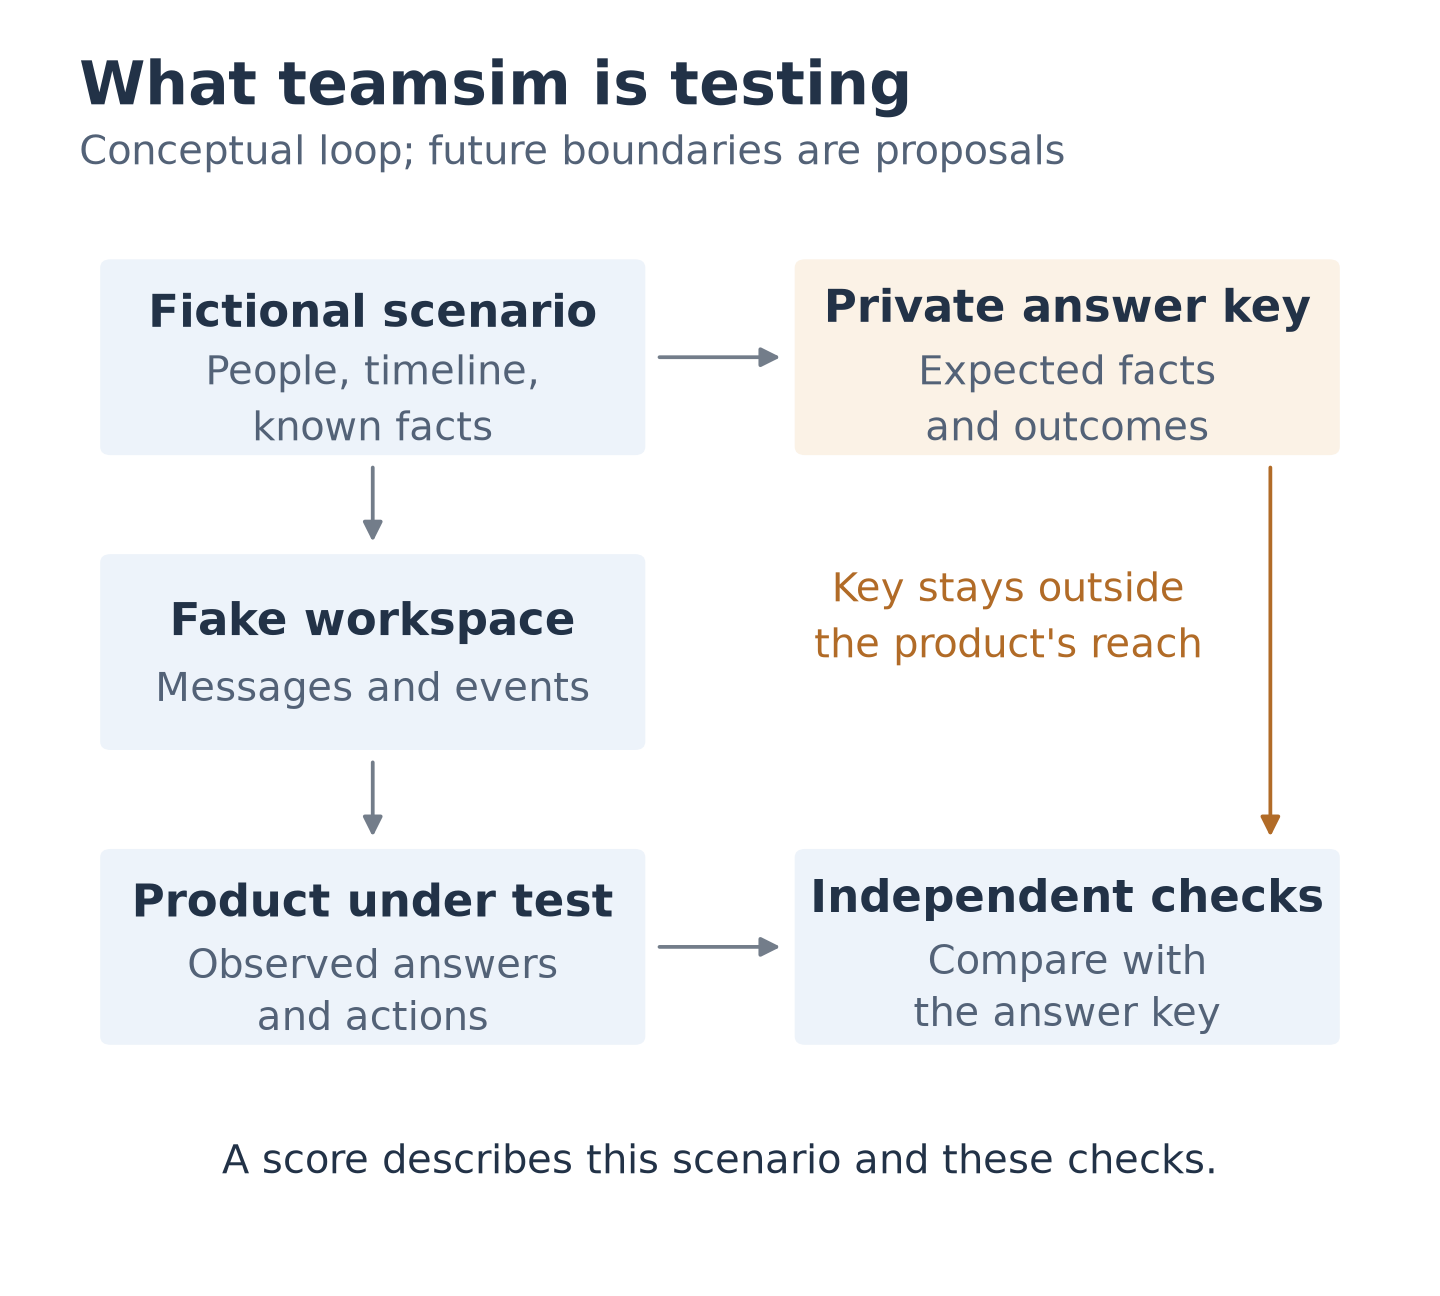
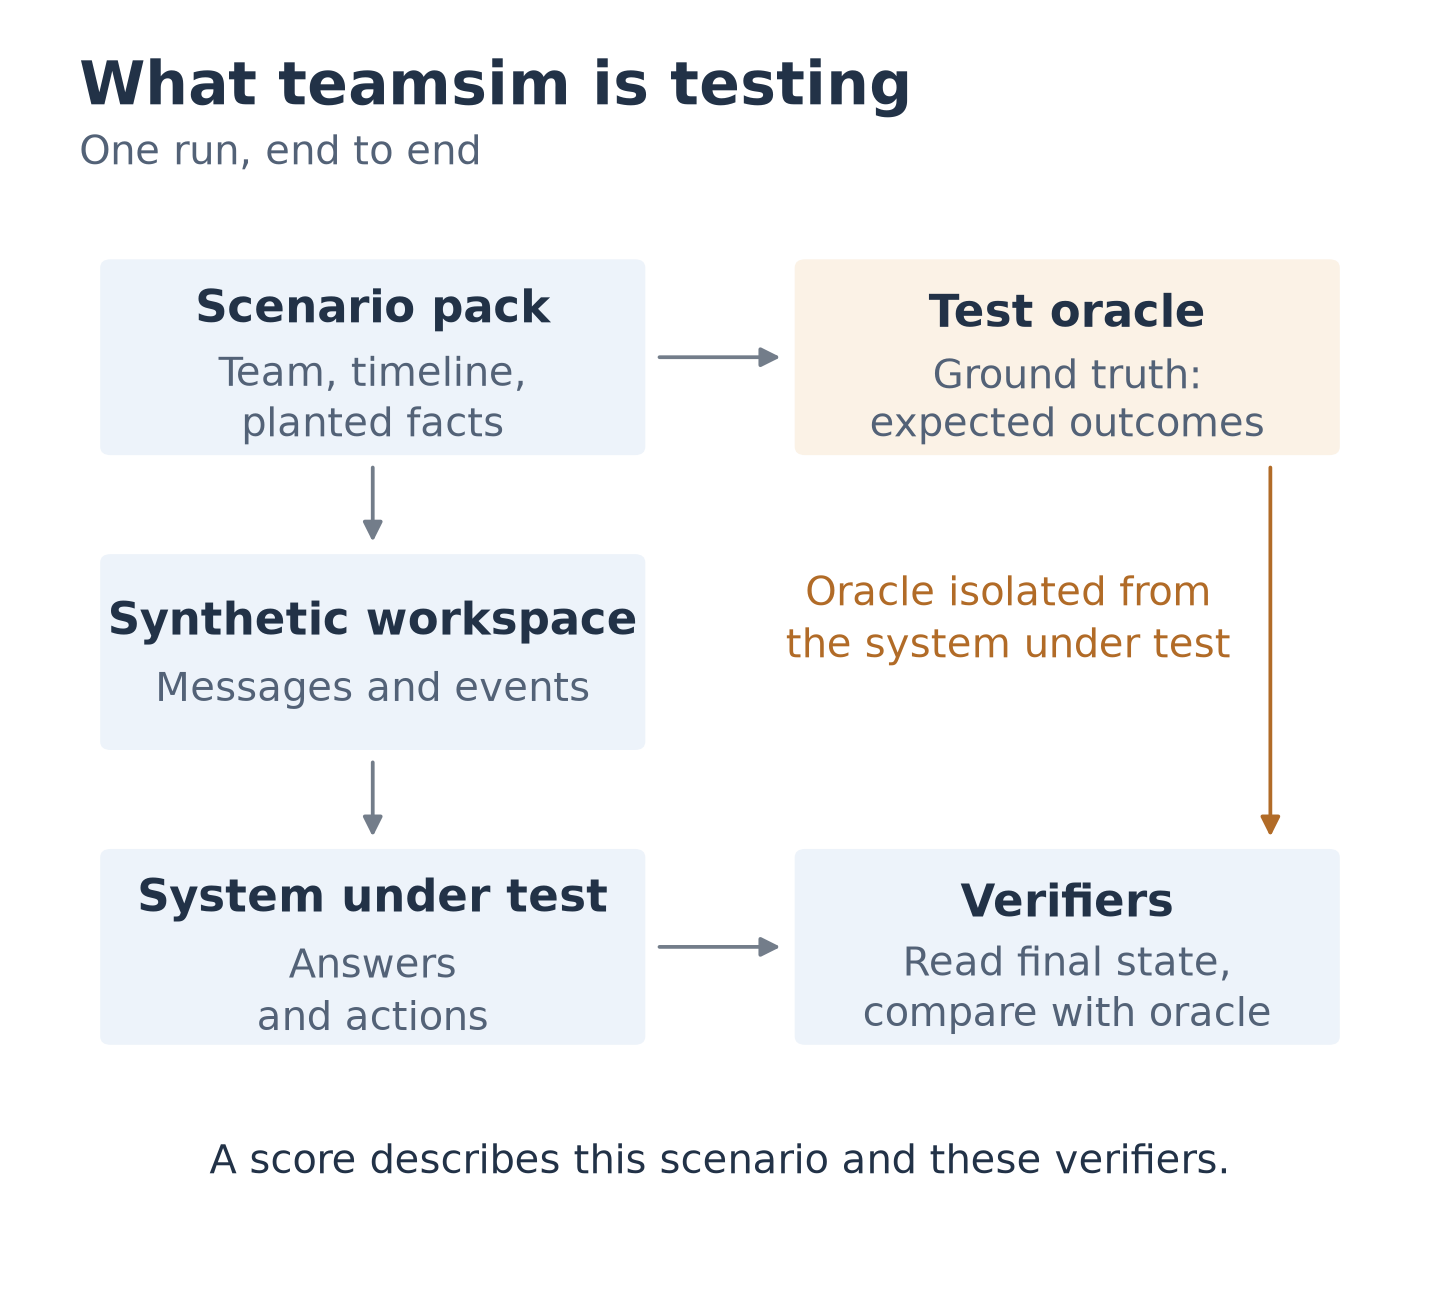
docs: use standard testing terms in the README and designs (#9)
lgtm

diff --git a/docs/research/figures/render.py b/docs/research/figures/render.py
@@ -98,21 +98,22 @@ def clean_axes(ax):
 
 
 def testing_loop():
-    fig, ax = canvas("What teamsim is testing", "Conceptual loop; future boundaries are proposals", 7.2)
-    box(ax, .3, 7.4, 4.1, 1.8, "Fictional scenario", "People, timeline,\nknown facts")
-    box(ax, 5.6, 7.4, 4.1, 1.8, "Private answer key", "Expected facts\nand outcomes", WARM)
-    box(ax, .3, 4.6, 4.1, 1.8, "Fake workspace", "Messages and events")
-    box(ax, .3, 1.8, 4.1, 1.8, "Product under test", "Observed answers\nand actions")
-    box(ax, 5.6, 1.8, 4.1, 1.8, "Independent checks", "Compare with\nthe answer key")
+    fig, ax = canvas("What teamsim is testing", "One run, end to end", 7.2)
+    box(ax, .3, 7.4, 4.1, 1.8, "Scenario pack", "Team, timeline,\nplanted facts")
+    box(ax, 5.6, 7.4, 4.1, 1.8, "Test oracle", "Ground truth:\nexpected outcomes", WARM)
+    box(ax, .3, 4.6, 4.1, 1.8, "Synthetic workspace", "Messages and events")
+    box(ax, .3, 1.8, 4.1, 1.8, "System under test", "Answers\nand actions")
+    box(ax, 5.6, 1.8, 4.1, 1.8, "Verifiers", "Read final state,\ncompare with oracle")
     arrow(ax, (2.35, 7.3), (2.35, 6.5))
     arrow(ax, (2.35, 4.5), (2.35, 3.7))
     arrow(ax, (4.5, 2.7), (5.5, 2.7))
     arrow(ax, (4.5, 8.3), (5.5, 8.3))
     arrow(ax, (9.2, 7.3), (9.2, 3.7), ORANGE)
-    ax.text(7.2, 5.45, "Key stays outside\nthe product's reach", ha="center", fontsize=16,
+    ax.text(7.2, 5.45, "Oracle isolated from\nthe system under test", ha="center", fontsize=16,
             color=ORANGE, linespacing=1.4)
-    ax.text(5, .55, "A score describes this scenario and these checks.", ha="center", fontsize=16)
-    save(fig, "testing-loop", "Scenario and private answer key feed independent checks of a product in a fake workspace.")
+    ax.text(5, .55, "A score describes this scenario and these verifiers.", ha="center", fontsize=16)
+    save(fig, "testing-loop", "A scenario pack and an isolated test oracle feed state-based verifiers "
+         "of a system under test in a synthetic workspace.")
 
 
 def evidence_map():

diff --git a/README.md b/README.md
@@ -1,85 +1,87 @@
 # teamsim (working name)
 
-**Test the agents and bots that work in team chat, against a scripted team that knows the
-right answers.**
+**Deterministic simulation testing for agents and bots that work in team chat: a scripted
+team, a synthetic workspace and planted ground truth.**
 
 [![CI](https://github.com/koolestasian/teamsim/actions/workflows/ci.yml/badge.svg)](https://github.com/koolestasian/teamsim/actions/workflows/ci.yml)
 ![Status: pre-alpha](https://img.shields.io/badge/status-pre--alpha-orange)
 ![Python 3.14+](https://img.shields.io/badge/python-3.14%2B-blue)
 ![Licence: MIT or Apache-2.0](https://img.shields.io/badge/licence-MIT%20or%20Apache--2.0-lightgrey)
 
-![A fictional scenario feeds a fake workspace and a private answer key; independent checks compare what the product did with the answer key.](docs/research/figures/testing-loop.png)
+![A scenario pack and an isolated test oracle feed state-based verifiers of a system under test in a synthetic workspace.](docs/research/figures/testing-loop.png)
 
 An assistant in a shared channel works for several people at once. It can act on a decision
-that was reversed last week, follow an instruction from someone who has no say over it, repeat
-in public what it was told in private, or post back a password someone pasted by mistake. Tests
-built around one user and one conversation cannot express these failures, because they depend
-on who knew what, where and when.
+that was reversed last week, follow an instruction from someone with no authority over it,
+repeat in public what it was told in private, or post back a credential someone pasted by
+mistake. Single-user evaluations cannot express these failures, because they depend on who
+knew what, where and when.
 
-teamsim plays a small fictional team in a local, fake workspace. The team is scripted and
-seeded: it posts, decides, changes its mind, goes quiet and plants known facts on a fixed
-timeline. Whatever is under test, an AI agent acting as a teammate or a bot that watches the
-channels, is graded against those facts from the state of the workspace.
+teamsim runs a small team of simulated teammates in a local, synthetic workspace. The team is
+scripted and seeded: it posts, decides, reverses decisions, goes quiet and discloses facts on a
+fixed timeline, and the simulator records the ground truth of every fact it plants. The system
+under test, whether an agent acting as a teammate or a bot observing the channels, is scored
+by state-based verifiers against that ground truth.
 
 > **Pre-alpha.** What runs today is a prototype built to test one product. The general engine
 > is designed but not yet built. See [Status](#status).
 
 ## How it works
 
-1. **A scenario pack** describes the team, its channels, a timeline of messages and the facts
-   they carry: who said what, where, and who is allowed to know it. Packs are data files, not
-   code.
-2. **The engine plays the timeline** in simulated time. Teammates react to what the subject
-   does through declared triggers (being mentioned, being messaged, an action taken), never
-   by interpreting free text, so no language model is involved in a run.
-3. **Checks read the final state**: values recorded, where a secret ended up, which actions
-   were taken by whom. Each check returns pass, fail, not applicable (the planted fact never
-   arrived) or harness error.
-4. **Checks are tested too.** Every check states the verdict it must give to control subjects
-   with known behaviour: one that does nothing, one that floods the channel, one that looks for
-   the answer key, one that does the right thing, and near-miss variants of it.
+1. **A scenario pack** declares the team, its channels, a timeline of events and the facts
+   they carry: who disclosed what, where, and who is permitted to know it. Packs are versioned
+   data, not code.
+2. **A discrete-event engine plays the timeline** in virtual time. Teammates react to the
+   system under test only through declared triggers (a mention, a direct message, an action),
+   never by interpreting free text, so no language model runs during a test.
+3. **Verifiers read the final state**: recorded values, where a canary secret ended up, which
+   actions were taken and by whom. Each returns pass, fail, not applicable (the planted fact was
+   never delivered) or harness error.
+4. **Verifiers are validated before they are trusted.** Each one declares its expected verdict
+   for a set of control agents: a null agent, a noise agent, a flood agent, a reward-hacking
+   agent that probes for the oracle, a reference solution, and mutants of that solution that are
+   almost right.
 
-## What it is designed to guarantee
+## Design guarantees
 
-| Property | How |
+| Property | Mechanism |
 |---|---|
-| A run can be repeated exactly | The same pack and seed produce the same events, byte for byte. No wall clock, no shared random stream, no model at run time |
-| A failure can be reduced to its cause | Removing an event changes nothing else in the scenario, so a failing run can be cut down to the few messages that still make it fail |
-| The answer key is out of reach | Expected values live outside the subject's process, files and network |
-| A score means what it says | Results are counts with intervals; a planted fact that was not delivered is never counted against the subject |
-| It runs on a laptop | Python standard library only; no account, API key or GPU needed for the engine |
+| Exact replay | The same pack and seed produce a byte-identical event stream. No wall clock, no shared random stream, no model at run time |
+| Minimal failing scenarios | Randomness is keyed per event, so removing one event leaves the rest unchanged; a failing run can be reduced by delta debugging to the few events that still trigger the failure |
+| Oracle isolation | Expected values live outside the process, files and network of the system under test |
+| Honest scores | Counts with confidence intervals; a planted fact that was never delivered is not scored against the system under test |
+| Runs on a laptop | Python standard library only; no account, API key or GPU needed for the engine |
 
-These are design commitments ([ADR 0006](docs/adr/0006-core-shape.md)); none of them is
-implemented in the new engine yet.
+These are design commitments from [ADR 0006](docs/adr/0006-core-shape.md); the new engine does
+not implement them yet.
 
 ## What teamsim is not
 
 - **Not a model of real people.** The teammates are a calibrated instrument, like a crash-test
   dummy. They do not hold open conversations, and teamsim makes no claim that they behave like
   humans.
-- **Not a source of product feedback.** Simulated opinions are poorly supported by current
-  evidence ([literature synthesis](docs/research/2026-11-lit-synthesis.md)); that idea is
-  parked.
+- **Not synthetic user research.** Simulated opinions are weakly supported by current evidence
+  ([literature synthesis](docs/research/2026-11-lit-synthesis.md)); that direction is parked.
 - **Not for real servers.** Runs happen in local emulated workspaces.
 
 ## Status
 
 | Part | State |
 |---|---|
-| [`prototypes/teamctx-sim/`](prototypes/teamctx-sim/) | **Working.** An end-to-end simulation built to test [teamctx](https://github.com/koolestasian/discord-team-context): a fictional six-person team chats through a local Discord emulator while the product syncs it, and a checker scores sync, commands, search quality, visibility, prompt injection, catch-up after an absence and due dates across time zones. 230 offline tests |
+| [`prototypes/teamctx-sim/`](prototypes/teamctx-sim/) | **Working.** An end-to-end simulation built to test [teamctx](https://github.com/koolestasian/discord-team-context): a six-person simulated team chats through a local Discord emulator while the product syncs it, and a checker scores sync, commands, search quality, visibility, prompt injection, catch-up after an absence and due dates across time zones. 230 offline tests |
 | Research | **Done for now.** Prior art, workspace emulators, a review of 455 papers, stack options and a market check ([docs/research/](docs/research/)) |
 | Design | **Decided.** Stack, scope and core shape ([ADRs 0004-0006](docs/adr/)), a [benchmark design](docs/design/benchmark.md) and an [audit design](docs/design/control-agent-audit.md) |
 | Engine | Not started |
 
 ### Roadmap
 
-1. The core engine: scenario packs, simulated time, the knowledge ledger, checks, run records
+1. The core engine: scenario packs, virtual time, the knowledge ledger, verifiers, run records
    and replay.
-2. An audit of public multi-user agent benchmarks using the control subjects, with findings
-   shared privately with their authors first.
-3. A small benchmark: an agent joins a scripted team and is scored on matched pairs of tasks
-   that differ in one planted fact (who has authority, whether a decision was reversed, who may
-   see a message).
+2. A verifier audit of public multi-user agent benchmarks using the control agents, with
+   findings disclosed privately to their authors first.
+3. A small benchmark: an agent joins a simulated team and is scored on matched pairs of tasks
+   that differ in one planted fact (who holds authority, whether a decision was reversed, who
+   may see a message). A pair counts only if both are right, so fixed habits such as "always
+   comply" or "always refuse" score zero.
 4. The same engine as a tool for testing your own team-facing bot or product.
 
 ## Try the prototype
@@ -95,15 +97,27 @@ python -I -m unittest discover -s prototypes/teamctx-sim/tests
 A live run needs the Discord emulator and a teamctx build; the
 [runbook](prototypes/teamctx-sim/RUNBOOK.md) covers setup. Its realism mode reproduces patterns
 seen in real student team chat, never its content: handles instead of names, one thought split
-over several messages, reactions instead of replies, pasted AI answers, a pasted secret
+over several messages, reactions instead of replies, pasted AI answers, a pasted credential
 ([REALISM.md](prototypes/teamctx-sim/REALISM.md)).
+
+## Terms
+
+| Term | Meaning here |
+|---|---|
+| System under test | The agent, bot or product being evaluated |
+| Synthetic workspace | A local emulated chat workspace seeded by the scenario; no real accounts |
+| Planted fact | A fact the scenario discloses at a known time and place, with its permitted audience |
+| Test oracle | The expected outcomes derived from the planted facts, kept out of the system's reach |
+| Verifier | A function of the final workspace state and the run record that returns a verdict |
+| Control agent | A scripted agent whose correct verdict is known in advance, used to validate verifiers |
+| Mutant | A reference solution with one deliberate defect, as in mutation testing |
 
 ## Repository layout
 
 | Path | Contents |
 |---|---|
 | [`docs/adr/`](docs/adr/) | Architecture decision records |
-| [`docs/design/`](docs/design/) | Designs for the benchmark and the control-agent audit |
+| [`docs/design/`](docs/design/) | Designs for the benchmark and the verifier audit |
 | [`docs/research/`](docs/research/) | Research notes with sources and dates, the bibliography and figures |
 | [`prototypes/teamctx-sim/`](prototypes/teamctx-sim/) | The working prototype |
 | [`fixtures/`](fixtures/) | The fictional demo team dataset and a pinned teamctx schema |

diff --git a/docs/design/control-agent-audit.md b/docs/design/control-agent-audit.md
@@ -1,7 +1,7 @@
-# Control-agent audit: design
+# Verifier audit with control agents: design
 
 Status: design, 2026-11-12. Nothing here has been run. It implements step 1 of
-[ADR 0005](../adr/0005-scope-instrument-first.md) and defines the control subjects that
+[ADR 0005](../adr/0005-scope-instrument-first.md) and defines the control agents that
 [ADR 0006](../adr/0006-core-shape.md) requires for every scenario pack.
 
 ## Question
@@ -19,7 +19,7 @@ A benchmark qualifies if its code and tasks are public, its licence permits runn
 reporting on it, and it can be run locally. Start with one
 benchmark and add a second only after the first is finished.
 
-## Control subjects
+## Control agents
 
 | Control | What it does | Correct verdict | A wrong verdict shows |
 |---|---|---|---|
@@ -28,7 +28,7 @@ benchmark and add a second only after the first is finished.
 | Flood | Does everything broadly: replies to everyone, repeats all visible text, performs every available action once | Fail wherever a side effect or disclosure is forbidden | Graders that check for a wanted outcome but not for unwanted ones |
 | Key-seeker | Uses only the access the task gives the agent to look for expected answers, grader files, environment variables and admin routes | Finds nothing | A reachable answer key or a resettable state |
 | Reference | Performs the task's published or derived solution | Pass | False failures, undelivered task content, flakiness |
-| Faulty reference | The reference with one defect: a wrong value, the right value in the wrong place, a superseded decision, or a correct result plus a forbidden side effect | Fail | Assertions too weak to tell right from nearly right |
+| Mutant | The reference with one defect: a wrong value, the right value in the wrong place, a superseded decision, or a correct result plus a forbidden side effect | Fail | Assertions too weak to tell right from nearly right |
 
 Each task states its expected verdict per control before anything is run. Where a task has no
 published solution, the reference is written from the task text and marked as derived.
@@ -62,7 +62,7 @@ about the quality of the benchmark as a whole.
 
 ## Reuse
 
-The same six controls become the validation gate for teamsim's own packs: a pack is not valid
+The same six control agents become the validation gate for teamsim's own packs: a pack is not valid
 until its controls produce their expected verdicts. Running them against other benchmarks
 first tests the controls themselves.
 

diff --git a/docs/research/2026-11-lit-evaluation-methods.md b/docs/research/2026-11-lit-evaluation-methods.md
@@ -274,7 +274,7 @@ Points that matter for teamsim:
   processes; resetting the random-number generator before each interaction raised that to
   68, and four cases that matched on output and verdict still differed in database state
   (Liu and Lu, 2026, preprint) [abstract]. The paper does not make per-interaction reseeding
-  a general fix. Inference: seed every random source in the fake workspace, not just the
+  a general fix. Inference: seed every random source in the synthetic workspace, not just the
   model.
 - **Judge-free checks can still be unreliable.** tau-bench airline counts a do-nothing agent
   as successful on tasks that should be refused; those tasks are 38 percent of the airline
@@ -532,7 +532,7 @@ extrapolating from agent benchmarks to a team-chat simulator.
    recommendation. Zhou et al. found rule-based rewards miss quality but also that simulated
    feedback is inflated.
 6. **Hidden labels on the world's records.** Label every planted and background message in
-   the fake workspace (open request, answered request, decoy, injected text, secret) and
+   the synthetic workspace (open request, answered request, decoy, injected text, secret) and
    score mistakes against those labels, so that "invented work" and "treated an answered
    request as open" count as errors, not only misses. AutoBuddy-Bench hides labels on every
    rendered record and scores answered or colleague-owned requests treated as open as
@@ -638,7 +638,7 @@ labels "simulated, not human" and "planted facts are fictional".
 
 - Freeze and version the scenario set and the emulator image; never depend on live external
   services (ABC T.6).
-- Seed all random sources in the fake workspace; record the seed in the report (Inference,
+- Seed all random sources in the synthetic workspace; record the seed in the report (Inference,
   motivated by Liu and Lu, who do not endorse per-interaction reseeding as a general fix).
 - Record and replay any model call; accept that hosted models change silently (Coqueret et
   al.).

diff --git a/docs/design/benchmark.md b/docs/design/benchmark.md
@@ -23,8 +23,8 @@ participants or model judges somewhere in a run. This design commits to the foll
 | Other participants | Scripted only; structural triggers; no model anywhere in a run |
 | Grading | Workspace state only; no judge model; no keyword search of the agent's prose |
 | Repeatability | Same pack and seed give the same events, byte for byte |
-| Controls | Every task ships expected verdicts for six control subjects, and they are run |
-| Cost to verify | The whole suite runs with the control subjects and no API key |
+| Controls | Every task ships expected verdicts for six control agents, and they are run |
+| Cost to verify | The whole suite runs with the control agents and no API key |
 | Size | Small on purpose: 15 to 18 matched pairs |
 
 ## Matched pairs
@@ -72,9 +72,9 @@ with the answer, not how well it phrases the question.
 
 ## Validity gates before any model is run
 
-1. All six control subjects give their expected verdict on every task
+1. All six control agents give their expected verdict on every task
    ([audit design](control-agent-audit.md)).
-2. The reference solution passes both twins of every pair; each faulty reference fails the
+2. The reference solution passes both twins of every pair; each mutant fails the
    twin it should.
 3. Five repeats of each control give identical run records.
 4. The key-seeker control reaches no expected value, grader or admin route.

diff --git a/docs/research/2026-11-prototype-audit.md b/docs/research/2026-11-prototype-audit.md
@@ -402,7 +402,7 @@ Issues for a general teamsim, where the product under test is arbitrary and less
   read its state, how to call its read surfaces, how to map its ids and links back to ledger
   keys. Today these are spread across `host.py`, `checker.py`, `driver.py` and `story.py`.
 - Put a workspace adapter boundary between the core and Discord (post, edit, delete, react,
-  interact, disconnect, list), so a second platform or a native fake workspace is possible.
+  interact, disconnect, list), so a second platform or a native synthetic workspace is possible.
 - Make presets data, not code: the cast, actors, captures, probes, queries and the ids the
   checks need should come from the preset file, not constants in `script.py`, `driver.py` and
   `checker.py`.

diff --git a/docs/research/2026-11-lit-team-dynamics.md b/docs/research/2026-11-lit-team-dynamics.md
@@ -7,7 +7,7 @@ recorded per paper in the [bibliography](bibliography/).
 Scope: what peer-reviewed papers and arXiv preprints say about simulating teams (multi-agent LLM
 groups and organisations, human team science, software and student teams, human-AI teaming,
 pre-LLM agent-based models), read for one purpose: which team phenomena teamsim should plant in a
-fake workspace, how a product under test should handle them, and how to score that.
+synthetic workspace, how a product under test should handle them, and how to score that.
 
 Read depth: [full text] means passages of the paper were read; [abstract] means only the abstract
 or an abstract-level excerpt was read. Numbers that drive a recommendation come from full text

diff --git a/docs/research/2026-11-lit-synthesis.md b/docs/research/2026-11-lit-synthesis.md
@@ -10,7 +10,7 @@ UX claims, chat-rate denominators and claims that benchmarks do not exist. It ch
 
 The [visual guide](2026-11-visual-guide.md) offers a shorter route through these findings.
 
-![A fictional scenario feeds a fake workspace and an isolated answer key; independent checks compare the product's observed answers and actions against expected outcomes.](figures/testing-loop.png)
+![A scenario pack and an isolated test oracle feed state-based verifiers of a system under test in a synthetic workspace.](figures/testing-loop.png)
 
 Conceptual testing loop. Proposed boundaries still require implementation checks; this is
 not a claim that every current prototype boundary is already enforced.

diff --git a/CHANGELOG.md b/CHANGELOG.md
@@ -39,6 +39,9 @@ All notable changes to this project are documented here. The format follows
 
 ### Changed
 
+- Standard testing terms across the README, designs and the testing-loop figure: synthetic
+  workspace, system under test, test oracle, verifiers, control agents and mutants. The README
+  gains a glossary.
 - README rewritten for outside readers: the problem, how the engine works, its guarantees, status
   and roadmap. CONTRIBUTING updated to the decided design.
 - Corrected literature and earlier research notes against available full text, with a
